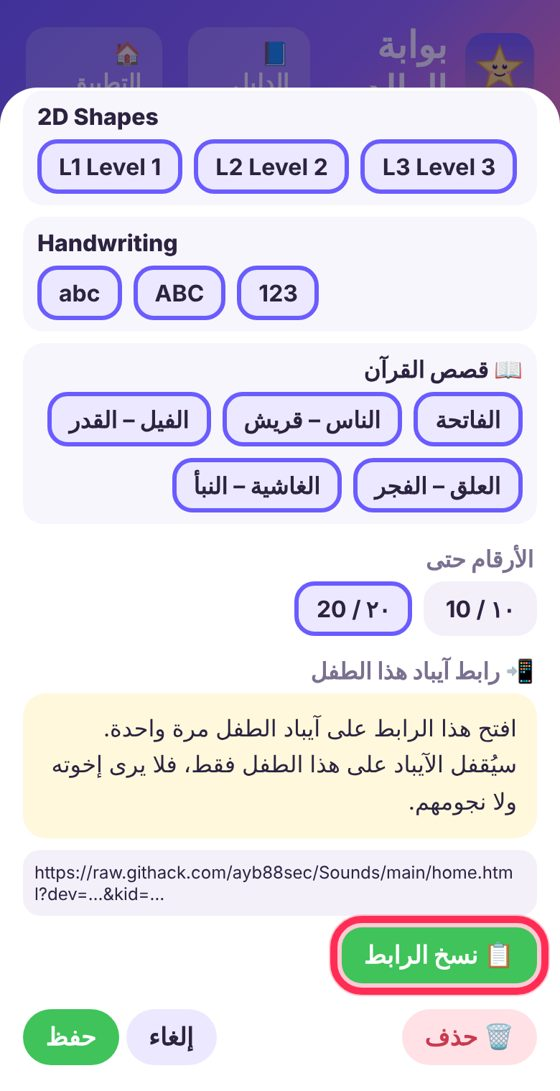
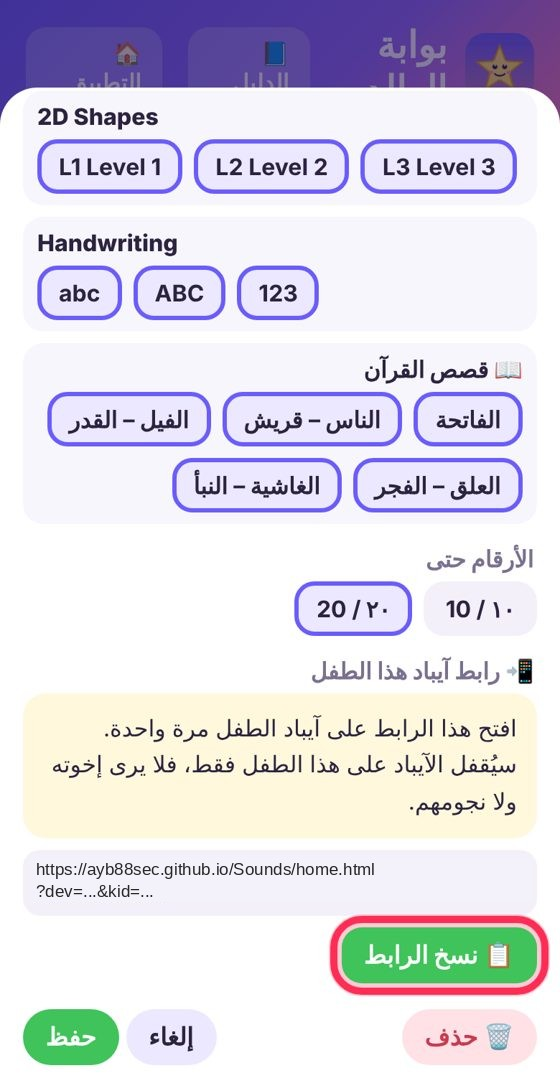
Family guide: new GitHub Pages address in text and screenshots, new step for recording your own voice
Claude-Session: https://claude.ai/code/session_016UQV7HuLGAjMXxqLBKhSrU

Changed region(s): [[0.0607, 0.7791, 0.9107, 0.8414]]

diff --git a/families.html b/families.html
@@ -10,4 +10,4 @@ main{max-width:560px;margin:0 auto;padding:18px 14px 40px}
 .st img{display:block;width:72%;margin:0 auto;border-radius:22px;border:6px solid #2b2340;box-shadow:0 6px 0 rgba(0,0,0,.12)}
 .lnk{direction:ltr;display:inline-block;background:#f3f0fa;border-radius:10px;padding:2px 8px;font-size:15px;color:#6a5cff;word-break:break-all}
 .code{direction:ltr;display:inline-block;background:#fff3c4;border-radius:10px;padding:2px 12px;font-size:22px;letter-spacing:2px;font-weight:800}</style></head>
-<body><main><div class="hd"><h1>🌟 نجمة للعايلة</h1><p>طريقة التسجيل وتجهيز آيباد العيال، خطوة بخطوة</p></div><div class="st"><h2><span class="n">1</span>سوّ حساب</h2><p>افتح البوابة على تيلفونك في <b>Safari</b>:<br><span class='lnk'>ayb88sec.github.io/Sounds/parent.html</span><br>اكتب إيميلك وكلمة سر (٨ حروف وفوق)، واضغط <b>حساب جديد</b>.</p><img src="img/guide/1.jpg" alt=""></div><div class="st"><h2><span class="n">2</span>سوّ عايلتك</h2><p>اكتب اسم العايلة واضغط <b>➕ إنشاء عائلة</b>.<br>لا تكتب شي في خانة رمز الدعوة.</p><img src="img/guide/2.jpg" alt=""></div><div class="st"><h2><span class="n">3</span>رمز العايلة</h2><p>اضغط تبويب <b>☁ الاتصال</b> (اسحب التبويبات لليسار)، واكتب الرمز:<br><span class='code'>اطلبه من آمنة</span><br>واضغط <b>حفظ الرمز</b>.</p><img src="img/guide/3.jpg" alt=""></div><div class="st"><h2><span class="n">4</span>ضيف عيالك</h2><p>اضغط تبويب <b>👧 الأطفال</b> ثم <b>➕ إضافة طفل</b>.</p><img src="img/guide/4.jpg" alt=""></div><div class="st"><h2><span class="n">5</span>إعدادات الياهل</h2><p>اكتب الاسم، واختار الصورة واللون، والتطبيقات والمستويات اللي تناسبه، وبعدين اضغط <b>حفظ</b>.</p><img src="img/guide/5.jpg" alt=""></div><div class="st"><h2><span class="n">6</span>رابط الآيباد</h2><p>اضغط <b>✏ تعديل</b> على الياهل، ثم <b>🔗 إنشاء رابط</b> ← <b>📋 نسخ الرابط</b>، وطرشه للآيباد (واتساب أو رسالة).<br>⚠ لا تفتح الرابط على تيلفونك.</p><img src="img/guide/6.jpg" alt=""></div><div class="st"><h2><span class="n">7</span>على آيباد الياهل</h2><p>افتح الرابط في <b>Safari</b>، واستوى لين يطلع اسم الياهل.<br>اضغط <b>Share ⬆</b> ← <b>Add to Home Screen</b>.<br>تأكد إن العنوان فيه <b>?dev=</b> وبعدين اضغط <b>Add</b>.</p><img src="img/guide/7.jpg" alt=""></div><div class="st"><h2><span class="n">8</span>جاهز! 🎉</h2><p>افتح نجمة من الأيقونة. الياهل يشوف اسمه وتطبيقاته بس، ونجومه توصلك في <b>📊 اللوحة</b>.</p><img src="img/guide/kid.jpg" alt=""></div><div class="st"><h2><span class="n">9</span>المحتوى المشترك 🌍</h2><p>القرآن والأدعية والأصوات اللي تشاركها آمنة توصلكم بروحها.<br>إذا سويت قسم وتبا الكل يستفيد منه، اختار داخله <b>📤 اقترح مشاركته مع الجميع</b>.</p><img src="img/guide/8.jpg" alt=""></div></main></body></html>
+<body><main><div class="hd"><h1>🌟 نجمة للعايلة</h1><p>طريقة التسجيل وتجهيز آيباد العيال، خطوة بخطوة</p></div><div class="st"><h2><span class="n">1</span>سوّ حساب</h2><p>افتح البوابة على تيلفونك في <b>Safari</b>:<br><span class='lnk'>ayb88sec.github.io/Sounds/parent.html</span><br>اكتب إيميلك وكلمة سر (٨ حروف وفوق)، واضغط <b>حساب جديد</b>.</p><img src="img/guide/1.jpg" alt=""></div><div class="st"><h2><span class="n">2</span>سوّ عايلتك</h2><p>اكتب اسم العايلة واضغط <b>➕ إنشاء عائلة</b>.<br>لا تكتب شي في خانة رمز الدعوة.</p><img src="img/guide/2.jpg" alt=""></div><div class="st"><h2><span class="n">3</span>رمز العايلة</h2><p>اضغط تبويب <b>☁ الاتصال</b> (اسحب التبويبات لليسار)، واكتب الرمز:<br><span class='code'>اطلبه من آمنة</span><br>واضغط <b>حفظ الرمز</b>.</p><img src="img/guide/3.jpg" alt=""></div><div class="st"><h2><span class="n">4</span>ضيف عيالك</h2><p>اضغط تبويب <b>👧 الأطفال</b> ثم <b>➕ إضافة طفل</b>.</p><img src="img/guide/4.jpg" alt=""></div><div class="st"><h2><span class="n">5</span>إعدادات الياهل</h2><p>اكتب الاسم، واختار الصورة واللون، والتطبيقات والمستويات اللي تناسبه، وبعدين اضغط <b>حفظ</b>.</p><img src="img/guide/5.jpg" alt=""></div><div class="st"><h2><span class="n">6</span>رابط الآيباد</h2><p>اضغط <b>✏ تعديل</b> على الياهل، ثم <b>🔗 إنشاء رابط</b> ← <b>📋 نسخ الرابط</b>، وطرشه للآيباد (واتساب أو رسالة).<br>⚠ لا تفتح الرابط على تيلفونك.</p><img src="img/guide/6.jpg" alt=""></div><div class="st"><h2><span class="n">7</span>على آيباد الياهل</h2><p>افتح الرابط في <b>Safari</b>، واستوى لين يطلع اسم الياهل.<br>اضغط <b>Share ⬆</b> ← <b>Add to Home Screen</b>.<br>تأكد إن العنوان فيه <b>?dev=</b> وبعدين اضغط <b>Add</b>.</p><img src="img/guide/7.jpg" alt=""></div><div class="st"><h2><span class="n">8</span>جاهز! 🎉</h2><p>افتح نجمة من الأيقونة. الياهل يشوف اسمه وتطبيقاته بس، ونجومه توصلك في <b>📊 اللوحة</b>.</p><img src="img/guide/kid.jpg" alt=""></div><div class="st"><h2><span class="n">9</span>المحتوى المشترك 🌍</h2><p>القرآن والأدعية والأصوات اللي تشاركها آمنة توصلكم بروحها.<br>إذا سويت قسم وتبا الكل يستفيد منه، اختار داخله <b>📤 اقترح مشاركته مع الجميع</b>.</p><img src="img/guide/8.jpg" alt=""></div><div class="st"><h2><span class="n">10</span>سجّل صوتك 🎙</h2><p>عيالك يقدرون يسمعون صوتك بدال صوت آمنة. اضغط 🎤 جنب أي حرف أو كلمة في <b>🧩 الأساسية</b> أو <b>🕌 ديني</b> أو داخل أي قسم، وسجّل.<br>صوتك يوصل لعيالك بس. وفوق كل صفحة تقدر تختار: <b>🎙 صوتي</b> أو <b>🤖 ذكاء اصطناعي</b> أو <b>🔇 بدون صوت</b>.</p></div></main></body></html>
